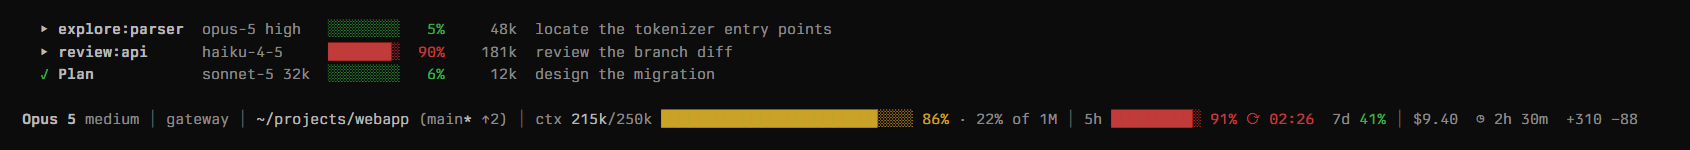
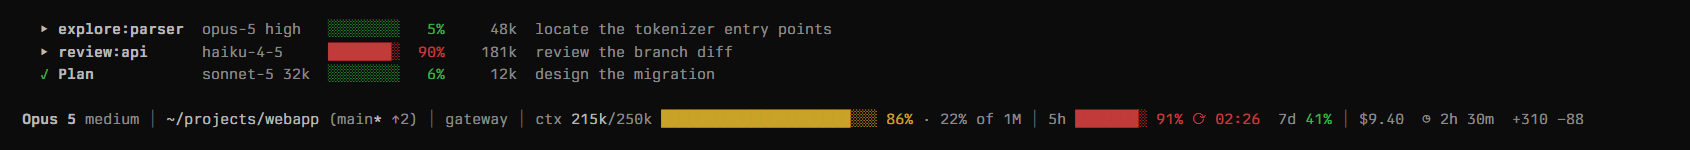
Fit the line inside Claude Code's margins and drop the session name first
- Claude Code draws the status line 4 columns narrower than COLUMNS and
  cuts anything wider with an ellipsis. Measured on 2.1.270 with a ruler
  line: COLUMNS=198, cut at cell 194. The line is now fitted to COLUMNS
  minus RESERVE.
- The directory comes before the session name, and the session name is
  the first segment to drop. Claude Code already shows a name set with
  --name or /rename on its prompt bar.
- Gauge tiers are recalibrated on a heavy session (a 20-cell name, $87,
  5h 30m, +3000 -900 lines, reset time shown): wider gauges can cost the
  session name and nothing else. The context gauge reaches 28 cells at
  187 columns; the 5-hour gauge appears at 175.

Claude-Session: https://claude.ai/code/session_01S1nMYWkWfqmgXtyKs1EU7p

Changed region(s): [[0.4923, 0.72, 0.9846, 0.8533], [0.0923, 0.7467, 0.3077, 0.8533]]

diff --git a/statusline.py b/statusline.py
@@ -13,8 +13,12 @@ Rendering rules:
   SGR dim would carry no hierarchy.
 - Gauge widths depend on COLUMNS alone (GAUGE_TIERS), so they never change between
   refreshes of the same terminal. Only the 5h limit gets a gauge.
-- When the line does not fit, segments drop by priority: lines changed, duration, cost,
-  window percentage, session and directory, rate limits. Model and gauge never drop.
+- The line is fitted to COLUMNS minus RESERVE: Claude Code draws the status line inside its
+  own margins and truncates anything wider with an ellipsis.
+- When the line does not fit, segments drop by priority: session name, lines changed,
+  duration, cost, window percentage, directory, rate limits. Model and gauge never drop.
+  The session name goes first because Claude Code already shows a name set with --name
+  or /rename on the prompt bar.
 - Glyphs that common terminal fonts lack (◬ ◷ ⟳) are followed by a space: their fallback
   glyph can be wider than one cell and would otherwise overlap the next character.
 - State colours are never bold: many terminals draw bold colours in their bright variant,
@@ -38,7 +42,7 @@ import unicodedata
 from datetime import datetime
 
 # --- Tunables ----------------------------------------------------------------
-VERSION       = "5.1.0"  # reported by --version; never drawn on the line
+VERSION       = "5.1.1"  # reported by --version; never drawn on the line
 SESSION_MAX   = 20       # display cells allowed to the session name
 MODEL_MAX     = 40       # display cells allowed to the model name (it never drops)
 COMFORT_ABS   = 250_000  # absolute comfort budget (tokens)
@@ -48,10 +52,11 @@ LIMIT_WARN    = 60       # rate limit %: amber from here
 LIMIT_HOT     = 85       # rate limit %: red, and the reset time appears
 GIT_TTL       = 5.0      # seconds to reuse a cached `git status`
 FALLBACK_COLS = 200      # assumed width when COLUMNS is absent
+RESERVE       = 4        # columns Claude Code keeps for its margins (measured on 2.1.270)
 # (minimum columns, context gauge cells, 5h limit gauge cells; 0 shows the 5h limit as text).
-# Tuned for a typical session (short name, cost under $100, a few hundred lines changed): it
-# keeps every segment. Heavier lines shed lines changed first, then duration, as usual.
-GAUGE_TIERS   = ((181, 28, 10), (175, 24, 8), (169, 20, 6), (161, 20, 0), (157, 16, 0), (0, 12, 0))
+# Measured so wider gauges never cost a segment other than the session name, even for a
+# heavy session: a 20-cell name, $87, 5h 30m, +3000 -900 lines and the reset time shown.
+GAUGE_TIERS   = ((187, 28, 10), (181, 24, 8), (175, 20, 6), (167, 20, 0), (163, 16, 0), (0, 12, 0))
 # SGR parameters. States use the terminal theme's own palette; greys are fixed xterm-256.
 GREEN, AMBER, RED = "32", "33", "31"
 SEP, MUTED = "38;5;240", "38;5;245"
@@ -383,8 +388,8 @@ def render(d: dict) -> str:
     # (drop priority, key, text) in display order; the highest priority drops first
     segments = [
         (0, "model", model_seg),
-        (2, "session", safe(build_session)),
         (2, "location", safe(build_location)),
+        (7, "session", safe(build_session)),
         (0, "context", ctx_seg),
         (3, "window", safe(build_window)),
         (1, "limits", safe(build_limits)),
@@ -396,7 +401,7 @@ def render(d: dict) -> str:
 
     while True:
         line = _join(segments)
-        if visible_len(line) <= cols or all(p == 0 for p, _, _ in segments):
+        if visible_len(line) <= cols - RESERVE or all(p == 0 for p, _, _ in segments):
             return line                    # model + gauge alone may exceed; the harness truncates
         worst = max(p for p, _, _ in segments)
         for i in range(len(segments) - 1, -1, -1):          # rightmost of the lowest importance

diff --git a/test_statusline.py b/test_statusline.py
@@ -226,7 +226,23 @@ class Layout(unittest.TestCase):
                     context_window=context(262_000), cost={"total_cost_usd": 123.45,
                     "total_duration_ms": 36_000_000, "total_lines_added": 4000, "total_lines_removed": 900})
         for cols in range(70, 260):
-            self.assertLessEqual(statusline.visible_len(render_at(cols, **long)), cols, cols)
+            width = statusline.visible_len(render_at(cols, **long))
+            self.assertLessEqual(width, cols - statusline.RESERVE, cols)
+
+    def test_directory_comes_before_the_session_name(self):
+        with mock.patch.object(statusline, "git_info", return_value=GIT):
+            out = strip(render_at(300, session_name="gateway"))
+        self.assertLess(out.index("(main"), out.index("gateway"))
+
+    def test_session_name_is_the_first_segment_to_drop(self):
+        # One fixed gauge tier, so only the segment set can change with the width.
+        full = dict(session_name="gateway", context_window=context(215_000))
+        with mock.patch.object(statusline, "GAUGE_TIERS", ((0, 12, 0),)):
+            fits = statusline.visible_len(render_at(400, **full)) + statusline.RESERVE
+            self.assertIn("gateway", strip(render_at(fits, **full)))
+            out = strip(render_at(fits - 1, **full))
+        self.assertNotIn("gateway", out)
+        self.assertIn("+10 −2", out)
 
     def test_window_percentage_drops_before_the_limits(self):
         for cols in range(40, 200):

diff --git a/README.md b/README.md
@@ -46,8 +46,8 @@ setting is re-read while a session is open.
 | Segment | Example | Notes |
 |---|---|---|
 | Model and effort | `Opus 5 medium` | |
-| Session name | `gateway` | Shown once the session is named with `--name` or `/rename`, or gets a generated title |
 | Directory and git | `~/projects/webapp (main* ↑2)` | `*` for uncommitted or untracked changes, `↑` `↓` for commits ahead and behind |
+| Session name | `gateway` | Shown once the session is named with `--name` or `/rename`, or gets a generated title |
 | Context | `ctx 215k/250k`, gauge, `86% · 22% of 1M` | `◬ saturated` once usage passes the budget |
 | Rate limits | `5h`, gauge, `91% ⟳ 02:26  7d 41%` | The 5-hour reset time appears from 85% |
 | Session | `$9.40  ◷ 2h 30m  +310 −88` | Cost, elapsed time, lines added and removed |
@@ -55,13 +55,15 @@ setting is re-read while a session is open.
 Colours come from your terminal theme. Context turns yellow at 60% of the budget and red
 at 100%; rate limits turn yellow at 60% and red at 85%.
 
-The context gauge widens with the terminal, from 12 cells up to 28 at 181 columns. The
-5-hour limit gets its own gauge from 169 columns. Widths depend only on the terminal
-size, so a gauge never changes length between refreshes.
+The context gauge widens with the terminal, from 12 cells up to 28 at 187 columns. The
+5-hour limit gets its own gauge from 175 columns. Widths depend only on the terminal
+size, so a gauge never changes length between refreshes. The line stops 4 columns short
+of the terminal width, which Claude Code keeps for its own margins.
 
-The line never wraps. When it runs out of room, segments drop in this order: lines
-changed, elapsed time, cost, window percentage, session name and directory, rate limits.
-Model and context gauge always stay.
+The line never wraps. When it runs out of room, segments drop in this order: session
+name, lines changed, elapsed time, cost, window percentage, directory, rate limits. Model
+and context gauge always stay. The session name goes first because Claude Code already
+shows a name set with `--name` or `/rename` on its prompt bar.
 
 ## Subagent rows
 
